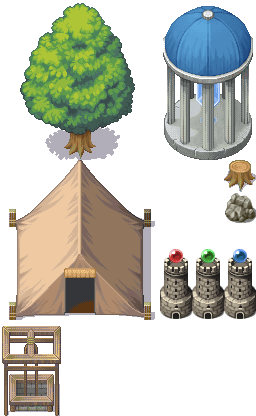
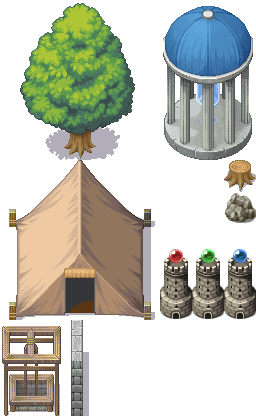
Commit #47

Changed region(s): [[0.25, 0.75, 0.375, 1.0]]

diff --git a/src/de/dakror/villagedefense/game/Game.java b/src/de/dakror/villagedefense/game/Game.java
@@ -22,6 +22,7 @@ import javax.swing.JFrame;
 
 import de.dakror.villagedefense.game.entity.Entity;
 import de.dakror.villagedefense.game.entity.creature.Villager;
+import de.dakror.villagedefense.game.entity.struct.Barricade;
 import de.dakror.villagedefense.game.entity.struct.House;
 import de.dakror.villagedefense.game.entity.struct.Mine;
 import de.dakror.villagedefense.game.entity.struct.Struct;
@@ -47,7 +48,7 @@ public class Game extends EventListener
 	public static Game currentGame;
 	public static JFrame w;
 	public static World world;
-	public static Struct[] buildableStructs = { new House(0, 0), new Mine(0, 0), new ArrowTower(0, 0) };
+	public static Struct[] buildableStructs = { new House(0, 0), new Mine(0, 0), new ArrowTower(0, 0), new Barricade(0, 0) };
 	
 	static HashMap<String, BufferedImage> imageCache = new HashMap<>();
 	
@@ -205,6 +206,19 @@ public class Game extends EventListener
 				for (int j = bump.y + world.y; j < bump.y + bump.height + world.y; j += Tile.SIZE)
 				{
 					boolean blocked = false;
+					
+					if (activeStruct.canPlaceOnWay())
+					{
+						blocked = true;
+						canPlace = false;
+					}
+					
+					if ((Assistant.round(j, Tile.SIZE) == Assistant.round(getHeight() / 2, Tile.SIZE) || Assistant.round(j, Tile.SIZE) == Assistant.round(getHeight() / 2, Tile.SIZE) - Tile.SIZE))
+					{
+						blocked = !activeStruct.canPlaceOnWay();
+						canPlace = activeStruct.canPlaceOnWay();
+					}
+					
 					for (Entity e : world.entities)
 					{
 						if (e.getBump(true).intersects(i + 5, j + 5, Tile.SIZE - 10, Tile.SIZE - 10))
@@ -215,11 +229,6 @@ public class Game extends EventListener
 						}
 					}
 					
-					if (Assistant.round(j, Tile.SIZE) == Assistant.round(getHeight() / 2, Tile.SIZE) || Assistant.round(j, Tile.SIZE) == Assistant.round(getHeight() / 2, Tile.SIZE) - Tile.SIZE)
-					{
-						blocked = true;
-						canPlace = false;
-					}
 					
 					g.drawImage(getImage(blocked ? "tile/blockedtile.png" : "tile/freetile.png"), Assistant.round(i, Tile.SIZE) - malus, Assistant.round(j, Tile.SIZE) - malus, Tile.SIZE + malus * 2, Tile.SIZE + malus * 2, w);
 				}
@@ -503,7 +512,7 @@ public class Game extends EventListener
 		
 		score += WaveManager.wave * 250;
 		
-		score -= (world.getCoreHouse().getAttributes().get(Attribute.HEALTH_MAX) - world.getCoreHouse().getAttributes().get(Attribute.HEALTH)) * 10;
+		score -= (world.core.getAttributes().get(Attribute.HEALTH_MAX) - world.core.getAttributes().get(Attribute.HEALTH)) * 10;
 		
 		return score - 1551;
 	}

diff --git a/src/de/dakror/villagedefense/settings/WaveManager.java b/src/de/dakror/villagedefense/settings/WaveManager.java
@@ -16,8 +16,7 @@ public class WaveManager
 		ZOMBIE("zombie", de.dakror.villagedefense.game.entity.creature.Zombie.class),
 		GHOST("ghost", de.dakror.villagedefense.game.entity.creature.Ghost.class),
 		SKELETON("skeleton", de.dakror.villagedefense.game.entity.creature.Skeleton.class),
-		
-		;
+		TROLL("troll", de.dakror.villagedefense.game.entity.creature.Troll.class), ;
 		
 		private String image;
 		private Class<?> creatureClass;
@@ -52,7 +51,7 @@ public class WaveManager
 	
 	static void generateNextWave()
 	{
-		Game.world.getCoreHouse().dealDamage(-1);
+		Game.world.core.dealDamage(-1);
 		monsters.clear();
 		
 		/*
@@ -62,6 +61,11 @@ public class WaveManager
 		monsters.put(Monster.ZOMBIE, Math.round(2 * wave + 3));
 		if (wave > 5) monsters.put(Monster.SKELETON, (int) Math.ceil(Math.random() * (wave - 5)) + 1);
 		
+		if (wave == 9)
+		{
+			monsters.clear();
+			monsters.put(Monster.TROLL, 1);
+		}
 		
 		nextWave = 60; // in seconds
 		wave++;
@@ -86,21 +90,24 @@ public class WaveManager
 					{
 						for (int i = 0; i < monsters.get(monster); i++)
 						{
-							boolean left = Math.random() < 0.5;
-							
-							int x = left ? -leftLength * Tile.SIZE : Game.getWidth() + rightLength * Tile.SIZE;
-							
 							try
 							{
-								Game.world.addEntity2((Entity) monster.getCreatureClass().getConstructor(int.class, int.class).newInstance(x, Game.world.height / 2 - Tile.SIZE));
+								boolean left = Math.random() < 0.5;
+								
+								int x = left ? -leftLength * Tile.SIZE : Game.getWidth() + rightLength * Tile.SIZE;
+								Entity e = (Entity) monster.getCreatureClass().getConstructor(int.class, int.class).newInstance(x, 0);
+								int y = Game.world.height / 2 - e.getHeight() / 2;
+								e.setY(y);
+								
+								Game.world.addEntity2(e);
+								
+								if (left) leftLength++;
+								else rightLength++;
 							}
-							catch (Exception e)
+							catch (Exception e1)
 							{
-								e.printStackTrace();
+								e1.printStackTrace();
 							}
-							
-							if (left) leftLength++;
-							else rightLength++;
 						}
 					}
 					

diff --git a/src/de/dakror/villagedefense/game/entity/creature/Creature.java b/src/de/dakror/villagedefense/game/entity/creature/Creature.java
@@ -7,6 +7,7 @@ import java.util.ArrayList;
 
 import de.dakror.villagedefense.game.Game;
 import de.dakror.villagedefense.game.entity.Entity;
+import de.dakror.villagedefense.game.entity.struct.Barricade;
 import de.dakror.villagedefense.game.entity.struct.Struct;
 import de.dakror.villagedefense.game.world.Tile;
 import de.dakror.villagedefense.settings.Attributes.Attribute;
@@ -74,6 +75,11 @@ public abstract class Creature extends Entity
 				}
 			}
 			else if (!onArrivalAtEntity(tick)) frame = 0;
+		}
+		
+		if (hostile && targetEntity == null && target == null) // killed everything
+		{
+			lookupTargetEntity();
 		}
 		
 		frame = frame % 4;
@@ -199,12 +205,31 @@ public abstract class Creature extends Entity
 	public void setHostile(boolean hostile)
 	{
 		this.hostile = hostile;
-		if (hostile) setTarget(Game.world.core);
+		lookupTargetEntity();
+	}
+	
+	public void lookupTargetEntity()
+	{
+		if (!hostile) return;
+		
+		Barricade closestBarricade = null;
+		
+		for (Entity e : Game.world.entities)
+		{
+			if (e instanceof Barricade)
+			{
+				if (closestBarricade == null || e.getPos().getDistance(getPos()) < closestBarricade.getPos().getDistance(getPos())) closestBarricade = (Barricade) e;
+			}
+		}
+		
+		if (closestBarricade == null || closestBarricade.getPos().getDistance(getPos()) > Game.world.core.getPos().getDistance(getPos())) setTarget(Game.world.core);
+		else setTarget(closestBarricade);
 	}
 	
 	@Override
 	public void onDeath()
 	{
+		if (hostile) Game.currentGame.resources.add(resources);
 		dead = true;
 	}
 	

diff --git a/src/de/dakror/villagedefense/game/entity/struct/Struct.java b/src/de/dakror/villagedefense/game/entity/struct/Struct.java
@@ -22,6 +22,7 @@ public abstract class Struct extends Entity
 {
 	protected int tx, ty;
 	protected boolean placeGround;
+	protected boolean canPlaceOnWay;
 	protected StructPoints structPoints;
 	protected Resources buildingCosts;
 	protected Image image;
@@ -32,6 +33,8 @@ public abstract class Struct extends Entity
 		
 		structPoints = new StructPoints();
 		buildingCosts = new Resources();
+		
+		canPlaceOnWay = false;
 	}
 	
 	@Override
@@ -42,6 +45,19 @@ public abstract class Struct extends Entity
 		g.drawImage(getImage(), (int) x, (int) y, Game.w);
 		
 		drawBump(g, true);
+		
+		// TODO: DEBUG
+		// for (Vector p : structPoints.attacks)
+		// {
+		// Vector v = p.clone();
+		// v.mul(Tile.SIZE);
+		// v.add(new Vector(x, y));
+		//
+		// Color old = g.getColor();
+		// g.setColor(Color.green);
+		// g.fillRect((int) v.x, (int) v.y, 4, 4);
+		// g.setColor(old);
+		// }
 	}
 	
 	public void setBump(Rectangle2D r)
@@ -156,6 +172,11 @@ public abstract class Struct extends Entity
 		}
 		
 		return true;
+	}
+	
+	public boolean canPlaceOnWay()
+	{
+		return canPlaceOnWay;
 	}
 	
 	protected abstract void onMinedUp();

diff --git a/src/de/dakror/villagedefense/game/entity/struct/Barricade.java b/src/de/dakror/villagedefense/game/entity/struct/Barricade.java
@@ -1,0 +1,50 @@
+package de.dakror.villagedefense.game.entity.struct;
+
+import java.awt.geom.Rectangle2D;
+
+import de.dakror.villagedefense.game.entity.Entity;
+import de.dakror.villagedefense.settings.Attributes.Attribute;
+import de.dakror.villagedefense.util.Vector;
+
+/**
+ * @author Dakror
+ */
+public class Barricade extends Struct
+{
+	public Barricade(int x, int y)
+	{
+		super(x, y, 1, 3);
+		name = "Barrikade";
+		tx = 2;
+		ty = 10;
+		attributes.set(Attribute.HEALTH, 21);
+		attributes.set(Attribute.HEALTH_MAX, 21);
+		
+		// buildingCosts.set(Resource.STONE, 5);
+		// buildingCosts.set(Resource.GOLD, 10);
+		canPlaceOnWay = true;
+		setBump(new Rectangle2D.Float(0.2f, 1, 0.4f, 2));
+		
+		structPoints.addAttacks(new Vector(-0.8f, 2), new Vector(0.6f, 2));
+	}
+	
+	@Override
+	protected void onMinedUp()
+	{}
+	
+	@Override
+	protected void tick(int tick)
+	{}
+	
+	@Override
+	public Entity clone()
+	{
+		return new Barricade((int) x, (int) y);
+	}
+	
+	@Override
+	protected void onDeath()
+	{
+		dead = true;
+	}
+}

diff --git a/src/de/dakror/villagedefense/game/entity/creature/Troll.java b/src/de/dakror/villagedefense/game/entity/creature/Troll.java
@@ -1,0 +1,37 @@
+package de.dakror.villagedefense.game.entity.creature;
+
+import de.dakror.villagedefense.game.entity.Entity;
+import de.dakror.villagedefense.settings.Attributes.Attribute;
+import de.dakror.villagedefense.settings.Resources.Resource;
+
+/**
+ * @author Dakror
+ */
+public class Troll extends Creature
+{
+	public Troll(int x, int y)
+	{
+		super(x, y, "troll");
+		
+		name = "Troll";
+		setHostile(true);
+		attributes.set(Attribute.HEALTH, 250);
+		attributes.set(Attribute.HEALTH_MAX, 250);
+		attributes.set(Attribute.DAMAGE_STRUCT, 25);
+		attributes.set(Attribute.SPEED, 0.6f);
+		
+		resources.set(Resource.GOLD, 150);
+	}
+	
+	@Override
+	protected boolean onArrivalAtEntity(int tick)
+	{
+		return false;
+	}
+	
+	@Override
+	public Entity clone()
+	{
+		return new Troll((int) x, (int) y);
+	}
+}

diff --git a/src/de/dakror/villagedefense/game/entity/creature/Ghost.java b/src/de/dakror/villagedefense/game/entity/creature/Ghost.java
@@ -1,5 +1,6 @@
 package de.dakror.villagedefense.game.entity.creature;
 
+import de.dakror.villagedefense.game.Game;
 import de.dakror.villagedefense.game.entity.Entity;
 import de.dakror.villagedefense.settings.Attributes.Attribute;
 import de.dakror.villagedefense.settings.Resources.Resource;
@@ -33,5 +34,11 @@ public class Ghost extends Creature
 	public Entity clone()
 	{
 		return new Ghost((int) x, (int) y);
+	}
+	
+	@Override
+	public void lookupTargetEntity()
+	{
+		setTarget(Game.world.core);
 	}
 }

diff --git a/src/de/dakror/villagedefense/game/entity/struct/Mine.java b/src/de/dakror/villagedefense/game/entity/struct/Mine.java
@@ -20,8 +20,8 @@ public class Mine extends Struct
 		name = "Mine";
 		placeGround = true;
 		setBump(new Rectangle2D.Double(0.1f, 2, 1.8f, 1));
-		attributes.set(Attribute.HEALTH, 35);
-		attributes.set(Attribute.HEALTH_MAX, 35);
+		// attributes.set(Attribute.HEALTH, 35);
+		// attributes.set(Attribute.HEALTH_MAX, 35);
 		attributes.set(Attribute.MINE_SPEED, 40);
 		attributes.set(Attribute.MINE_AMOUNT, 2);
 		

diff --git a/src/de/dakror/villagedefense/game/world/World.java b/src/de/dakror/villagedefense/game/world/World.java
@@ -204,16 +204,6 @@ public class World extends EventListener implements Drawable
 		
 	}
 	
-	public CoreHouse getCoreHouse()
-	{
-		for (Entity e : entities)
-		{
-			if (e instanceof CoreHouse) return (CoreHouse) e;
-		}
-		
-		return null;
-	}
-	
 	@Override
 	public void update(int tick)
 	{

diff --git a/src/de/dakror/villagedefense/game/entity/creature/Zombie.java b/src/de/dakror/villagedefense/game/entity/creature/Zombie.java
@@ -33,7 +33,6 @@ public class Zombie extends Creature
 			boolean left = Math.random() < 0.5;
 			Game.world.addEntity(new Ghost(left ? 0 : Game.getWidth(), Game.world.height / 2 - Tile.SIZE));
 		}
-		Game.currentGame.resources.add(resources);
 		super.onDeath();
 	}
 	

diff --git a/src/de/dakror/villagedefense/game/entity/creature/Skeleton.java b/src/de/dakror/villagedefense/game/entity/creature/Skeleton.java
@@ -25,6 +25,12 @@ public class Skeleton extends Creature
 	}
 	
 	@Override
+	public void onDeath()
+	{
+		super.onDeath();
+	}
+	
+	@Override
 	protected boolean onArrivalAtEntity(int tick)
 	{
 		return false;
